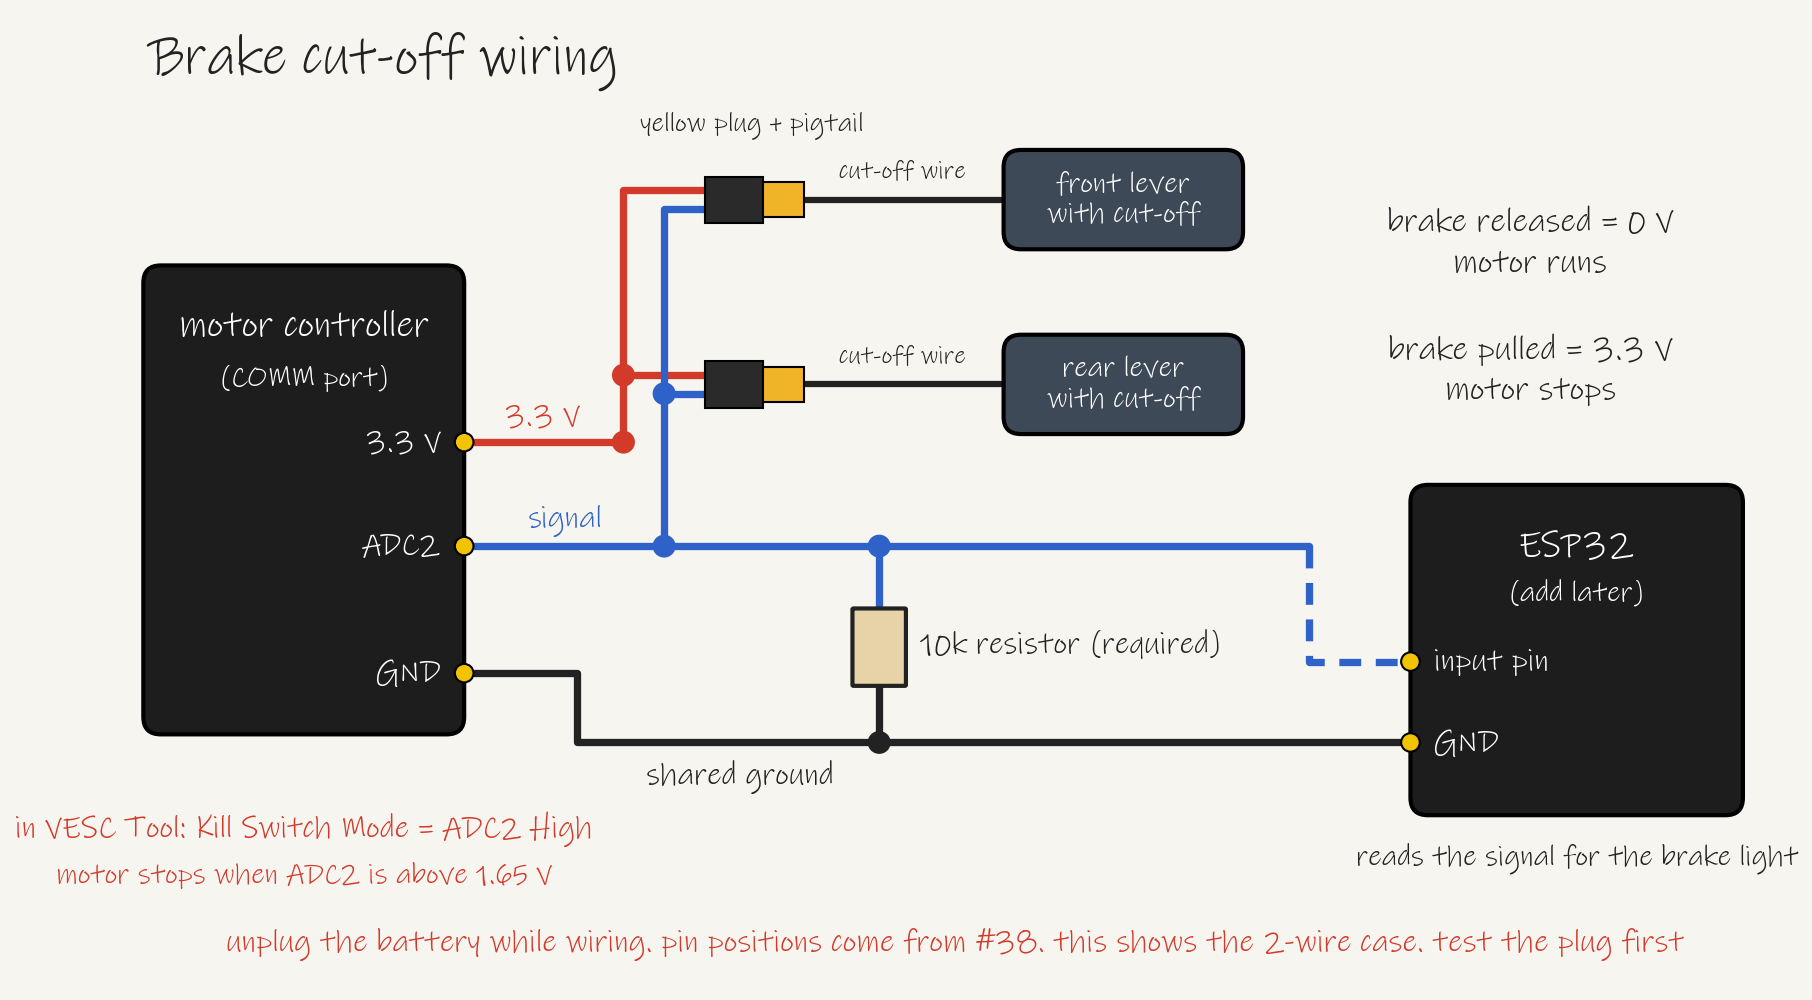
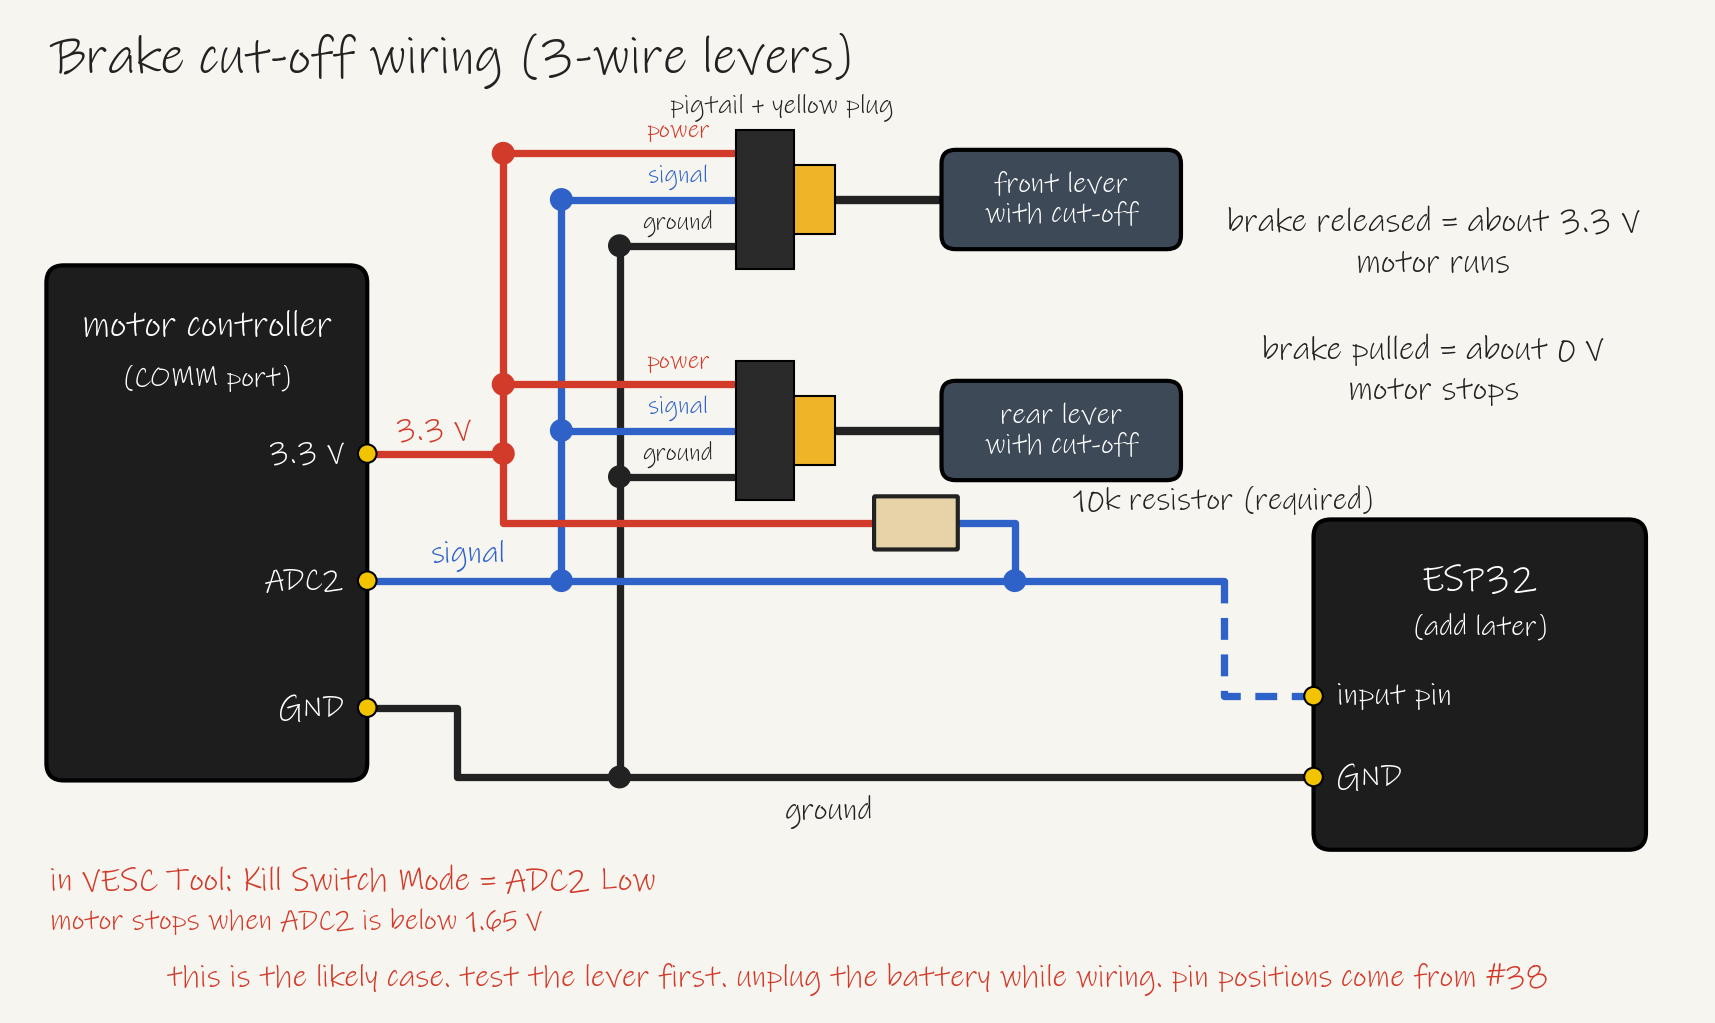
Add the remaining bay photos and plan for 3-wire levers

diff --git a/electrical/brake-cutoff.md b/electrical/brake-cutoff.md
@@ -34,31 +34,31 @@ There are two separate lines at each brake. The inner wire and housing stop the 
 
 The cut-off wire is short, so it needs a pigtail, which is a short cable with the other half of the yellow plug, plus extra wire to reach the controller. Include this in the wiring harness ([#20](https://github.com/Electrium-Mobility/Bakfiets-F26/issues/20)).
 
-The first job is finding out what kind of signal the lever sends. Look inside the yellow plug and count the pins, then test it with a multimeter.
+The yellow plug has three pins, so the lever is most likely a powered sensor with three wires: power, ground and signal. The first job is finding out what the signal does when the lever is pulled. Test one lever on the bench with a 3-pin pigtail. Confirm which wire is power before connecting it, because wiring it backwards can kill the sensor. Pigtail colours vary, so don't go by colour alone.
 
-![A multimeter on continuity mode connected to the pins of the yellow plug](diagrams/brake-plug-test.png)
+![Test setup: the lever powered from an ESP32 board's 3.3 V, a 10k resistor from 3.3 V to the signal wire, and a multimeter measuring signal to ground](diagrams/brake-plug-test.png)
 
-| Result | What it means | What to do |
+| Lever released | Lever pulled | What to do |
 | --- | --- | --- |
-| Two pins, and the meter beeps only when the lever is pulled | Plain switch that closes when you brake | Use the wiring below |
-| Two pins, and the meter stops beeping when the lever is pulled | Plain switch that opens when you brake | Use the wiring below with Kill Switch Mode set to ADC2 Low. A broken wire then stops the motor too |
-| Three pins, and the meter never beeps | Powered sensor | Find the power, ground and signal wires, give it 3.3 V and measure the signal. Set ADC2 High if the signal goes up when you brake, or ADC2 Low if it goes down. The signal must stay at or below 3.3 V |
+| About 3.3 V | About 0 V | Use the wiring below with Kill Switch Mode set to ADC2 Low |
+| About 0 V | About 3.3 V | Move the 10k resistor so it goes from signal to ground, and set ADC2 High |
+| Stays the same | Stays the same | Stop here. It may need 5 V, and on 5 V the signal could be too high for ADC2 and the ESP32. Ask Ayaan before going further |
 
-Here's how the plain switch case works. Pulling a brake connects 3.3 V to a signal wire, which goes to ADC2, an input pin on the controller's COMM port. The VESC firmware has a kill switch setting called ADC2 High, which stops the motor whenever ADC2 is above 1.65 V ([firmware source](https://github.com/vedderb/bldc/blob/master/timeout.c)). When the lever is released, a 10k resistor pulls the signal back to 0 V.
+Here's how the first case works, which is the most common on 3-wire levers. The resistor holds the signal at 3.3 V. Pulling a brake connects the signal to ground, so it drops to about 0 V. The signal goes to ADC2, an input pin on the controller's COMM port. The VESC firmware has a kill switch setting called ADC2 Low, which stops the motor whenever ADC2 is below 1.65 V ([firmware source](https://github.com/vedderb/bldc/blob/master/timeout.c)).
 
-![Wiring: controller 3.3 V through two levers to a signal wire, which goes to ADC2 and later the ESP32, with a 10k resistor to ground](diagrams/brake-cutoff-wiring.png)
+![Wiring: controller 3.3 V and ground to both levers, both signal wires to ADC2 and later the ESP32, with a 10k resistor from 3.3 V to the signal](diagrams/brake-cutoff-wiring.png)
 
-The 10k resistor is required. An unconnected ADC2 can float to a random voltage, and [one builder measured 1.2 V](https://foil.zone/t/magnet-operated-kill-switch/15715/25), which is close to the 1.65 V trigger.
+The 10k resistor is required. An unconnected ADC2 can float to a random voltage, and [one builder measured 1.2 V](https://foil.zone/t/magnet-operated-kill-switch/15715/25), which is below the 1.65 V trigger.
 
 Before building, read the controller's model and firmware version in VESC Tool and post them on [#38](https://github.com/Electrium-Mobility/Bakfiets-F26/issues/38). The model tells us where 3.3 V, ADC2 and GND are on the COMM port. The kill switch was [added to the firmware in June 2021](https://github.com/vedderb/bldc/commits/master/timeout.c), so older firmware needs updating first.
 
 Build it on a breadboard first, with the battery unplugged whenever you change a wire.
 
-1. Test the main idea with a 10k resistor and a jumper wire in place of the lever. Connect the resistor from ADC2 to GND, then set Kill Switch Mode to ADC2 High in App Settings. With the back wheel lifted and the current limits low, spin the motor and connect 3.3 V to ADC2. The motor should stop, and restart only once the wire is removed.
-2. Test the yellow plug using the picture above.
-3. Connect one lever using the table below.
-4. Check with a multimeter that the signal row reads 0 V, then 3.3 V when the lever is pulled. Watch the same change on the ADC2 voltage in VESC Tool.
-5. Repeat the motor test from step 1 using the lever.
+1. Test the lever using the picture above and pick the setting from the table.
+2. Connect one lever using the table below.
+3. Watch the ADC2 voltage in VESC Tool's live data while pulling the lever. It should match what you measured.
+4. Set Kill Switch Mode in App Settings and write the configuration. Menu names can vary a little between versions.
+5. With the back wheel lifted and the current limits low, spin the motor and pull the lever. The motor should stop, and restart only once the lever is released.
 6. Add the second lever and test each brake.
 7. Add the ESP32 for the brake light.
 
@@ -66,11 +66,13 @@ Build it on a breadboard first, with the battery unplugged whenever you change a
 | --- | --- |
 | Controller 3.3 V | Red breadboard rail |
 | Controller GND | Blue breadboard rail |
-| Front lever, pin 1 | Red rail |
-| Front lever, pin 2 | Signal row |
-| Rear lever, pin 1 | Red rail |
-| Rear lever, pin 2 | Signal row |
-| 10k resistor | Signal row to blue rail |
+| Front lever power | Red rail |
+| Front lever ground | Blue rail |
+| Front lever signal | Signal row |
+| Rear lever power | Red rail |
+| Rear lever ground | Blue rail |
+| Rear lever signal | Signal row |
+| 10k resistor | Signal row to red rail |
 | Signal row | Controller ADC2 |
 | ESP32 GND (step 7) | Blue rail |
 | Signal row (step 7) | ESP32 input pin, through a 1k resistor |
@@ -83,15 +85,15 @@ Fit the levers on the bike and check these before the first ride:
 
 - The lever pulls enough cable to clamp the Shimano mechanical caliper firmly before the lever reaches the grip. Linear pull and short pull levers move different amounts of cable, and these levers haven't been tested with our calipers yet.
 - The levers clamp onto our handlebars.
-- With the back wheel lifted, pulling each brake stops the motor. Repeat this check before every ride. If the circuit uses a switch that closes when you brake, a broken wire leaves the motor running, although the brakes still work.
+- With the back wheel lifted, pulling each brake stops the motor. Repeat this check before every ride. A broken signal wire or an unplugged lever leaves the motor running, although the brakes still work.
 
-If we can't find a second lever with a cut-off, the second brake can use a plain lever with a [Grin inline sensor](https://ebikes.ca/inline-cable-cutoff-sensor.html), CA$21, wired the same way once we confirm its signal.
+If we can't find a second lever with a cut-off, the second brake can use a plain lever with a [Grin inline sensor](https://ebikes.ca/inline-cable-cutoff-sensor.html), CA$21, once we confirm its signal. Its wiring would differ from a 3-wire lever, so two matching levers are simpler.
 
 Still open:
 
 - How many levers with a cut-off the bay has. The photos show one, labelled A01-R, and we need two.
-- The number of pins on the yellow plug and what type of signal it sends.
-- Which pigtail fits the yellow plug.
+- What the yellow plug's signal does when the lever is pulled, and which wire is which.
+- Which 3-pin pigtail fits the yellow plug.
 - The controller's model and COMM pinout ([#38](https://github.com/Electrium-Mobility/Bakfiets-F26/issues/38)).
 - The string measurements for both routes.
 - Which ESP32 input pin to use (firmware).

diff --git a/docs/brakes/README.md b/docs/brakes/README.md
@@ -18,7 +18,7 @@ Our frame, with the parts this page talks about. Both wheels are still off the f
 
 Electrium has spare brake levers, inner wire and 5 mm housing from old bikes, photographed 6 Nov 2026. We're checking if they suit the Bakfiets. The current plan and wiring are in [Brake motor cut-off](../../electrical/brake-cutoff.md).
 
-This lever has a cut-off built in. Its thin wire ends in a yellow plug and sends a signal to the motor controller when the lever is pulled. The photos show one, labelled A01-R, and we need one per brake.
+This lever has a cut-off built in. Its thin wire ends in a yellow plug with three pins and sends a signal to the motor controller when the lever is pulled. The photos show one, labelled A01-R, and we need one per brake.
 
 ![Lever with a cut-off wire and yellow plug](../../electrical/photos/brake-parts-2026-11/1-lever-with-cutoff.jpg)
 
@@ -33,6 +33,14 @@ These two levers, marked POWER, have no cut-off, so they're a backup. A plain le
 ![The back of the two plain levers](../../electrical/photos/brake-parts-2026-11/4b-plain-levers-back.jpg)
 
 Check that a lever clamps the Shimano mechanical caliper firmly before it reaches the grip, and that it fits our handlebars. Neither has been tested yet.
+
+The bay also has the rest of the brake line parts: black 5 mm housing and inner wire, both 2 m, plus ferrules, end caps and red cable protectors.
+
+![Black brake housing, 2 m](../../electrical/photos/brake-parts-2026-11/5-housing.jpg)
+
+![Inner brake wire, 2 m](../../electrical/photos/brake-parts-2026-11/6-inner-wire.jpg)
+
+![Bag of ferrules, end caps and red cable protectors](../../electrical/photos/brake-parts-2026-11/7-small-parts.jpg)
 
 ## Limits
 
